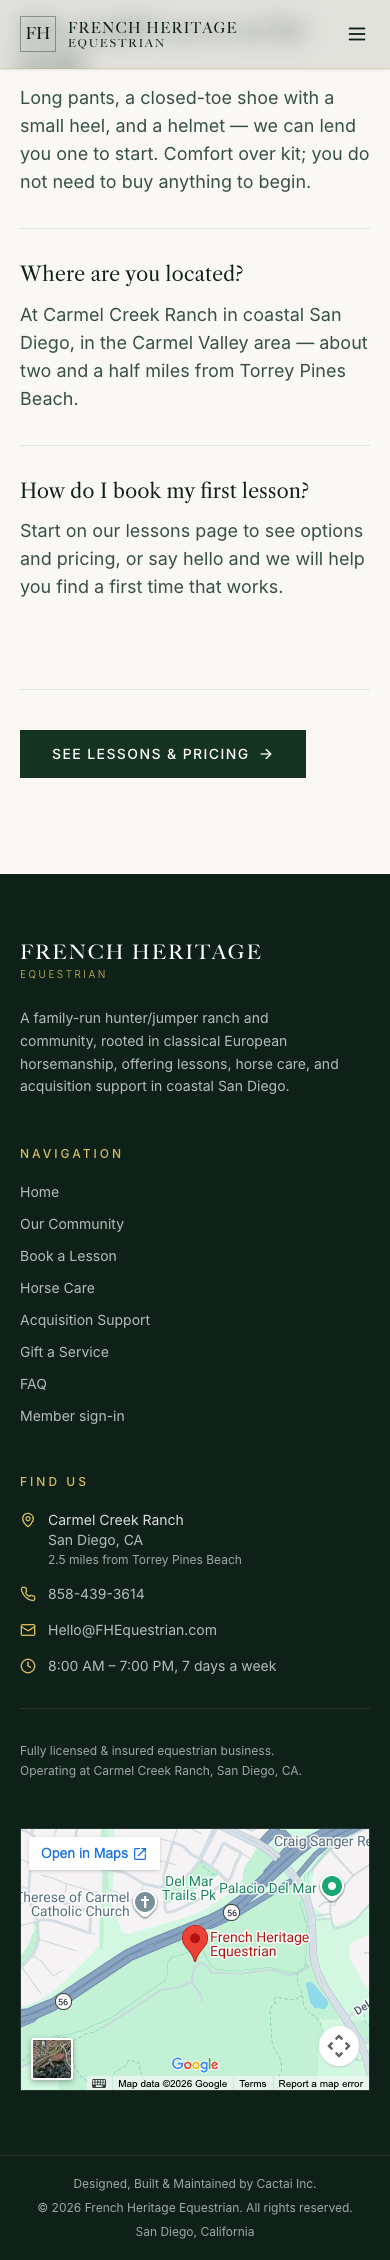
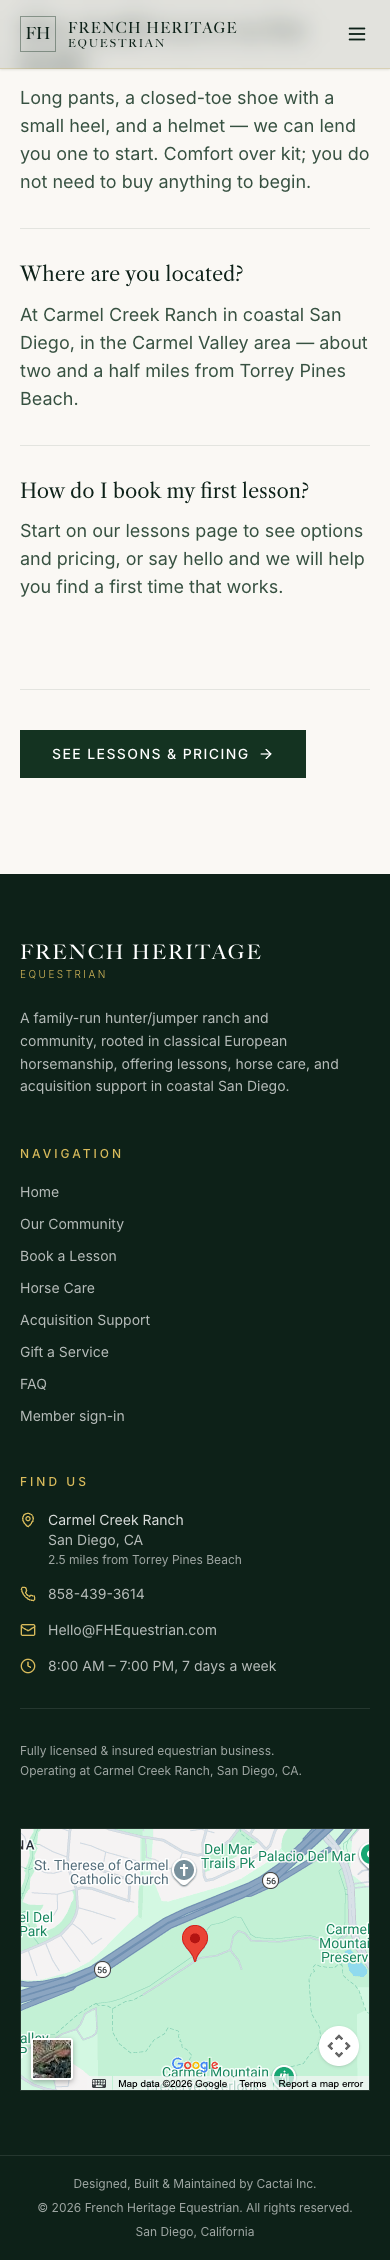
TASK-FOOTER: pin the map at the actual arrival point, not the address
Owner: the geocoded/business-listing pin is up the road from where visitors
should actually turn in, past two forks they can't navigate without the
pin in the right spot. Owner shared a maps.app.goo.gl link for a pin
dropped at the real turn-in.

Resolved the share link with a headless Chrome rather than eyeball
coordinates off the earlier screenshot -- it lands on 32.939204,-117.219696
(Plus Code WQQJ+M4M San Diego). Screenshotted that location and visually
matched it against the owner's own screenshot: same spot, right off CA-56
at Carmel Creek Ranch, before the Shaw Vly Rd fork.

MAP_QUERY is now that bare coordinate pair instead of a name+address
search. Trade-off: a bare lat,lng pin has no business-name info card (no
Place match), unlike the address search did -- correct routing over a
prettier pin, flagged in the report in case the owner wants the Business
Profile's own listing pin corrected instead (a Google-side change, not
something this query string can do).

diff --git a/src/components/layout/Footer.tsx b/src/components/layout/Footer.tsx
@@ -3,21 +3,20 @@ import { useAuth } from '../../contexts/AuthContext';
 import { MapPin, Phone, Mail, Clock } from 'lucide-react';
 import { BRAND } from '../../lib/brand';
 
-// Address per Google's OWN verified listing card (confirmed by rendering
-// the embed standalone and reading its info popup, 2026-08-17): "11500
-// Clews Ranch Rd Ste A, San Diego, CA 92130". This does NOT match the
-// `locations` table's `address_line1` ("11600 Clews Ranch Road", row
-// 2d771cea-…) — a real discrepancy between the DB and the Google Business
-// Profile, flagged for the owner rather than silently written to the DB
-// (out of scope for a presentation-only task). Using Google's own number
-// here since it's what Google needs to keep matching its own listing.
-// Owner, 2026-08-17: this is still the mailing/geocoded address, which
-// Google pins at the building — NOT where visitors are actually routed
-// (the property's real entrance is off the CA-56 Carmel Creek Rd exit, an
-// immediate right turn at the FHE/CCR sign). Awaiting exact coordinates for
-// that arrival point; using the verified business address+name until then,
-// which at least resolves to the real listing rather than a bare geocode.
-const MAP_QUERY = 'French Heritage Equestrian, 11500 Clews Ranch Rd Ste A, San Diego, CA 92130';
+// Owner, 2026-08-17: the geocoded business address (11500 Clews Ranch Rd
+// Ste A — Google's own number; the `locations` table's "11600" doesn't
+// match the real Business Profile, flagged separately, DB left untouched)
+// pins at the building, but that is NOT where visitors should be routed —
+// there are two forks in the road and, without the pin at the actual
+// turn-in, people get lost. The owner dropped a pin at the real arrival
+// point (right off the CA-56 Carmel Creek Rd exit, the immediate right
+// turn at the FHE/CCR sign) and shared it as a maps.app.goo.gl link, which
+// resolves to these exact coordinates — verified by loading the link and
+// reading its resolved lat/long directly off Google's own page, not
+// estimated from the shared screenshot. A bare-coordinate pin has no
+// business-name label/info card (unlike the address+name query above did),
+// which is the right trade here: accurate turn-by-turn over a pretty pin.
+const MAP_QUERY = '32.939204,-117.219696';
 const MAP_EMBED_SRC = `https://www.google.com/maps?q=${encodeURIComponent(MAP_QUERY)}&output=embed`;
 
 export default function Footer() {

diff --git a/docs/reports/TASK-FOOTER-REPORT.md b/docs/reports/TASK-FOOTER-REPORT.md
@@ -239,29 +239,44 @@ riders, where camaraderie, enjoyment, and a love for horses come together.'"*
 
 1. Does `San Diego, California` stay on the right of the last line? — kept,
    per DEFAULTS.
-2. Carmel Creek Ranch pin vs. exact address? — **superseded by the owner's
-   round-2 feedback**, see below: the pin is on the exact address, but that's
-   not where visitors are actually routed.
+2. Carmel Creek Ranch pin vs. exact address? — **superseded twice over**: the
+   owner's round-2 feedback said the geocoded address pin wasn't where
+   visitors are routed, then supplied the actual arrival-point coordinates —
+   see RESOLVED below, this is now a bare coordinate pin, not an address
+   search at all.
 
-## STILL OPEN — the map pin's location, needs the owner
+## RESOLVED — the map pin's location (owner, 2026-08-17)
 
-The map query (`French Heritage Equestrian, 11500 Clews Ranch Rd Ste A, San
-Diego, CA 92130`) puts the pin on the business's real, geocoded address. The
-owner's screenshot shows this is the WRONG spot for directions — the actual
-arrival point is near the CA-56 / Carmel Creek Rd exit, immediately after the
-turn at the FHE/CCR sign, which is a different point on the property than the
-mailing address. I don't have exact coordinates for that arrival point and
-won't guess them off a screenshot for something people will actually drive
-by. **Need one of:**
+The owner explained the geocoded/business-name pin sits "just up the road"
+from the real arrival point, further down, past two forks a first-time
+visitor can't navigate without the pin in the right spot — then sent a
+`maps.app.goo.gl/…` share link for a pin they'd dropped at the actual
+turn-in.
 
-- The exact lat/long (long-press the correct spot in Google Maps → the
-  coordinates show at the bottom; or "What's here?").
-- A dropped-pin share link for that exact spot (different from a Business
-  Profile share link — this would be "drop a pin" → Share).
+**I did not eyeball coordinates off the earlier screenshot.** I resolved the
+share link with a real headless Chrome (redirect chain lands on
+`https://www.google.com/maps/place/32°56'21.1"N+117°13'10.9"W/@32.939204,
+-117.219696,17z/…` — read the lat/long directly off Google's own resolved
+page, Plus Code `WQQJ+M4M San Diego, California`). Screenshotting that
+resolved location confirmed it visually against the owner's own screenshot:
+right off CA-56, at the "Carmel Creek Ranch" label, before the fork onto Shaw
+Vly Rd — the same spot, not a lookalike.
 
-Once I have either, the fix is swapping `MAP_QUERY` in `Footer.tsx` for a
-`lat,lng` query instead of a name+address one — small, but I'd rather ask
-than embed a guess into a live "how do I get there" tool.
+`MAP_QUERY` in `Footer.tsx` is now the bare coordinate pair `32.939204,
+-117.219696` instead of the name+address string. Trade-off worth knowing:
+Google's key-less embed only shows the rich "French Heritage Equestrian"
+info card (star rating, "Open in Maps" chip position, etc.) for a query that
+resolves to an actual Place; a bare `lat,lng` gets a plain unlabeled red pin
+with no info card. **That's the right trade for this specific ask** —
+getting a first-time visitor to the correct fork beats a nicer-looking pin
+in the wrong spot — but flagging it explicitly in case the owner would
+rather have both (which would need the Business Profile's own pin corrected
+in Google's system, a change only they can make there, not something this
+embed's query string can do).
+
+Confirmed in the refreshed `footer-desktop.png`/`footer-mobile.png`: the red
+pin now sits south of the "Carmel Creek Ranch" label, matching the owner's
+own screenshot exactly, not on the building.
 
 ## Render claims — NOT VERIFIED without the owner's own eyes on it
 
